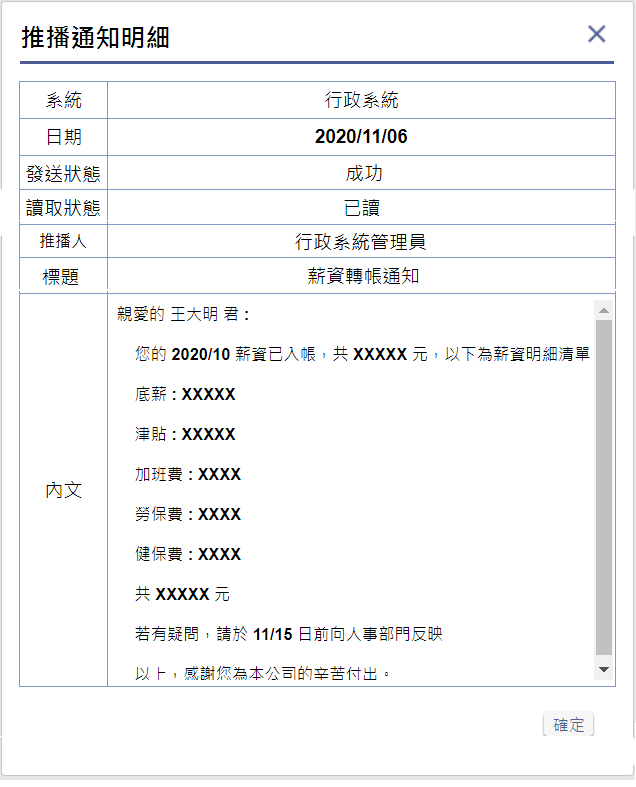
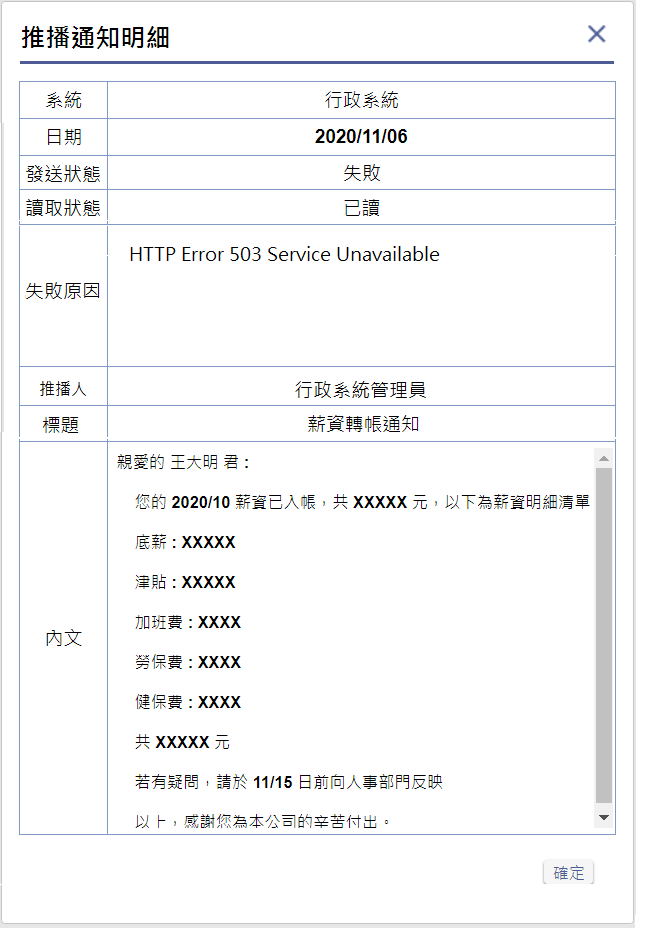
推播通知明細 增加欄位.失敗原因的顯示

diff --git a/8.10.0/UPDATE/ITEM_2/RTE/pushmessagedetail.md b/8.10.0/UPDATE/ITEM_2/RTE/pushmessagedetail.md
@@ -14,11 +14,14 @@
 
 * 表單畫面
 
-    ![Alt pushmessagedetail_view](./img/pushmessagedetail_view.png)   
+    ![Alt pushmessagedetail_view](./img/pushmessagedetail_view.png)  
 * 畫面規格說明
     * 欄位.系統 : 顯示指定推播通知紀錄所屬系統。
     * 欄位.日期 : 顯示指定推播通知紀錄發送日期。    
     * 欄位.發送狀態 : 顯示指定推播通知紀錄的發送狀態。
+    * 欄位.失敗原因 : 
+        * 若欄位.發送狀態=成功，則隱藏該欄位。
+        * 若欄位.發送狀態=失敗，則顯示指定推播通知紀錄的失敗原因。
     * 欄位.讀取狀態 : 顯示指定推播通知紀錄的讀取狀態。
     * 欄位.推播人 : 顯示指定推播通知紀錄的推播人姓名。
 	* 欄位.標題 : 顯示指定推播通知紀錄的標題。
